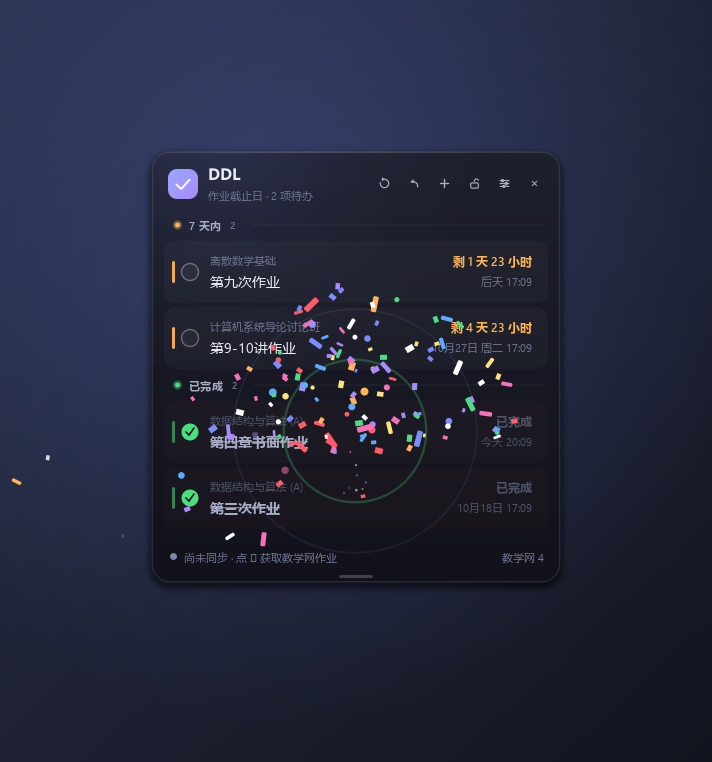
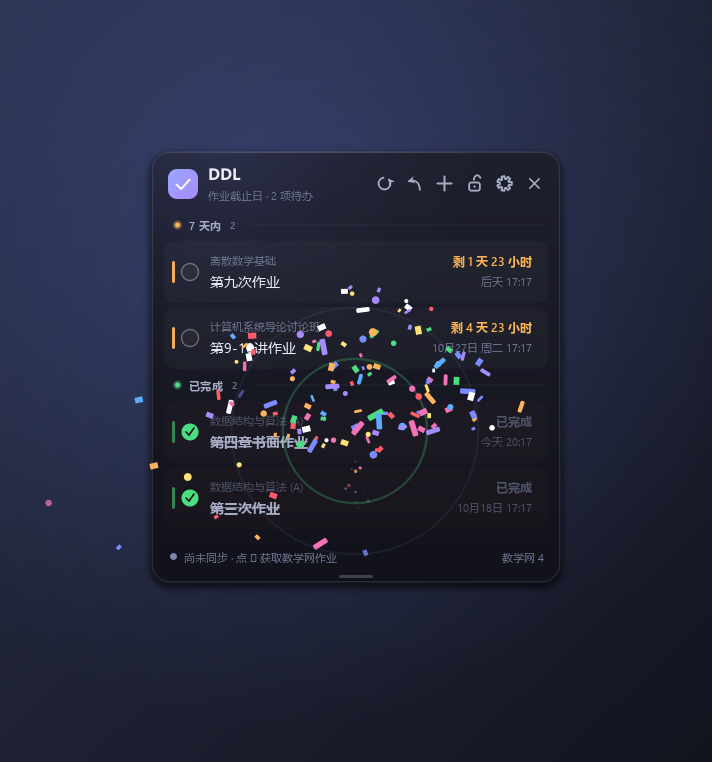
style: 重做头部图标
- 矢量图标之前的实际绘制区域只占 24 格里的 13 格，缩到 14px 只剩 8px，
  显得又小又细；改为按 18 个单位缩放，图标实际大小与字号一致
- 描边 1.8 → 2.2，头部图标尺寸各 +1px
- 刷新图标按切线角度重算箭头朝向；锁加了锁孔、锁梁加高；设置图标改回齿轮
- 截图全部重新生成

diff --git a/ddlwidget/vector_icons.py b/ddlwidget/vector_icons.py
@@ -1,7 +1,11 @@
 """矢量图标。
 
 原来用的是 Windows 自带的 Segoe Fluent Icons 字形，换到 macOS 上会变成豆腐块。
-这里改成按 24x24 网格手绘 QPainterPath，跨平台一致，也不依赖任何字体。
+这里改成按网格手绘 QPainterPath，跨平台一致，也不依赖任何字体。
+
+坐标约定：24x24 网格，图形大致占 3~21（即 18 个单位）。
+draw_icon 会按 18 个单位去缩放，这样 14px 的图标就是实打实 14px 的视觉大小，
+而不是缩到 24 格里的 13/24。
 """
 
 from __future__ import annotations
@@ -12,26 +16,21 @@ from PySide6.QtCore import QPointF, QRectF, Qt
 from PySide6.QtGui import QColor, QPainter, QPainterPath, QPen
 
 GRID = 24.0
+SPAN = 18.0
 
 
 def _pen(color: QColor, width: float = 2.2) -> QPen:
-    pen = QPen(
+    return QPen(
         color,
         width,
         Qt.PenStyle.SolidLine,
         Qt.PenCapStyle.RoundCap,
         Qt.PenJoinStyle.RoundJoin,
     )
-    return pen
 
 
-def _add(p: QPainter) -> None:
-    p.drawLine(QPointF(12, 5.5), QPointF(12, 18.5))
-    p.drawLine(QPointF(5.5, 12), QPointF(18.5, 12))
-
-
-def _arrow(p: QPainter, x: float, y: float, angle: float, size: float = 4.6) -> None:
-    """在 (x, y) 处画一个实心箭头，angle 是箭头指向（0=向右）。"""
+def _arrow(p: QPainter, x: float, y: float, angle: float, size: float = 5.4) -> None:
+    """实心箭头，angle 是箭头指向（0=向右，顺时针为正，屏幕坐标）。"""
     color = QColor(p.pen().color())
     p.save()
     p.translate(x, y)
@@ -39,125 +38,172 @@ def _arrow(p: QPainter, x: float, y: float, angle: float, size: float = 4.6) -> 
     p.setPen(Qt.PenStyle.NoPen)
     p.setBrush(color)
     tri = QPainterPath()
-    tri.moveTo(1.2, 0)
-    tri.lineTo(-size, -size * 0.72)
-    tri.lineTo(-size, size * 0.72)
+    tri.moveTo(1.6, 0)
+    tri.lineTo(-size, -size * 0.66)
+    tri.lineTo(-size * 0.62, 0)
+    tri.lineTo(-size, size * 0.66)
     tri.closeSubpath()
     p.drawPath(tri)
     p.restore()
     p.setBrush(Qt.BrushStyle.NoBrush)
 
 
+def _add(p: QPainter) -> None:
+    p.drawLine(QPointF(12, 4.0), QPointF(12, 20.0))
+    p.drawLine(QPointF(4.0, 12), QPointF(20.0, 12))
+
+
 def _refresh(p: QPainter) -> None:
-    rect = QRectF(4.8, 4.8, 14.4, 14.4)
+    cx, cy, r = 12.0, 12.0, 7.1
+    rect = QRectF(cx - r, cy - r, 2 * r, 2 * r)
     path = QPainterPath()
-    path.arcMoveTo(rect, 90)
-    path.arcTo(rect, 90, -280)
+    # 从 100° 逆时针画 300°，缺口留在 40°~100°（右上方）
+    path.arcMoveTo(rect, 100)
+    path.arcTo(rect, 100, 300)
     p.drawPath(path)
-    _arrow(p, 12.2, 5.0, 6, 4.8)
+    # 弧线终点在 40°，逆时针切线朝左上
+    end_deg = 40.0
+    angle = math.radians(end_deg)
+    _arrow(
+        p,
+        cx + r * math.cos(angle),
+        cy - r * math.sin(angle),
+        -90.0 - end_deg,
+        6.4,
+    )
 
 
 def _undo(p: QPainter) -> None:
     path = QPainterPath()
-    path.moveTo(17.6, 17.8)
-    path.cubicTo(17.6, 10.2, 11.4, 7.6, 6.4, 9.4)
+    path.moveTo(18.4, 19.6)
+    path.cubicTo(18.4, 10.0, 11.2, 6.6, 5.4, 9.2)
     p.drawPath(path)
-    _arrow(p, 6.4, 9.4, 160, 4.8)
+    _arrow(p, 5.4, 9.2, 165, 6.8)
 
 
 def _lock_body(p: QPainter) -> None:
     body = QPainterPath()
-    body.addRoundedRect(QRectF(5.0, 11.0, 14.0, 9.5), 2.2, 2.2)
+    body.addRoundedRect(QRectF(5.6, 10.8, 12.8, 9.8), 2.3, 2.3)
     p.drawPath(body)
 
 
 def _lock(p: QPainter) -> None:
     _lock_body(p)
     shackle = QPainterPath()
-    shackle.arcMoveTo(QRectF(8.0, 5.0, 8.0, 9.0), 0)
-    shackle.arcTo(QRectF(8.0, 5.0, 8.0, 9.0), 0, 180)
+    shackle.arcMoveTo(QRectF(7.9, 3.0, 8.2, 10.6), 0)
+    shackle.arcTo(QRectF(7.9, 3.0, 8.2, 10.6), 0, 180)
     p.drawPath(shackle)
+    p.setBrush(QColor(p.pen().color()))
+    p.setPen(Qt.PenStyle.NoPen)
+    p.drawEllipse(QPointF(12.0, 15.7), 1.4, 1.4)
+    p.setBrush(Qt.BrushStyle.NoBrush)
 
 
 def _unlock(p: QPainter) -> None:
     _lock_body(p)
     shackle = QPainterPath()
-    shackle.arcMoveTo(QRectF(11.6, 3.6, 8.0, 9.0), 30)
-    shackle.arcTo(QRectF(11.6, 3.6, 8.0, 9.0), 30, 150)
+    shackle.arcMoveTo(QRectF(11.2, 2.2, 8.2, 10.6), 25)
+    shackle.arcTo(QRectF(11.2, 2.2, 8.2, 10.6), 25, 155)
     p.drawPath(shackle)
+    p.setBrush(QColor(p.pen().color()))
+    p.setPen(Qt.PenStyle.NoPen)
+    p.drawEllipse(QPointF(12.0, 15.7), 1.4, 1.4)
+    p.setBrush(Qt.BrushStyle.NoBrush)
+
+
+def _gear_path(cx: float, cy: float, teeth: int = 7) -> QPainterPath:
+    r_root, r_tip = 5.6, 8.9
+    path = QPainterPath()
+    step = math.tau / teeth
+    half_tip = step * 0.23
+    half_root = step * 0.33
+    for index in range(teeth):
+        angle = index * step
+        points = (
+            (angle - half_root, r_root),
+            (angle - half_tip, r_tip),
+            (angle + half_tip, r_tip),
+            (angle + half_root, r_root),
+        )
+        for point_index, (theta, radius) in enumerate(points):
+            x = cx + radius * math.cos(theta)
+            y = cy - radius * math.sin(theta)
+            if index == 0 and point_index == 0:
+                path.moveTo(x, y)
+            else:
+                path.lineTo(x, y)
+        # 齿之间的根部圆弧，用直线近似足够
+    path.closeSubpath()
+    return path
 
 
 def _settings(p: QPainter) -> None:
-    rows = ((6.6, 8.4), (12.0, 15.4), (17.4, 11.0))
-    for y, knob in rows:
-        p.drawLine(QPointF(4.0, y), QPointF(20.0, y))
-        p.setBrush(QColor(p.pen().color()))
-        p.drawEllipse(QPointF(knob, y), 2.0, 2.0)
-        p.setBrush(Qt.BrushStyle.NoBrush)
+    p.drawPath(_gear_path(12.0, 12.0, teeth=7))
+    p.setBrush(Qt.BrushStyle.NoBrush)
 
 
 def _close(p: QPainter) -> None:
-    p.drawLine(QPointF(7.0, 7.0), QPointF(17.0, 17.0))
-    p.drawLine(QPointF(17.0, 7.0), QPointF(7.0, 17.0))
+    p.drawLine(QPointF(5.5, 5.5), QPointF(18.5, 18.5))
+    p.drawLine(QPointF(18.5, 5.5), QPointF(5.5, 18.5))
 
 
 def _check(p: QPainter) -> None:
-    p.drawLine(QPointF(5.2, 12.6), QPointF(10.0, 17.2))
-    p.drawLine(QPointF(10.0, 17.2), QPointF(18.8, 7.0))
+    p.drawLine(QPointF(4.0, 12.4), QPointF(9.8, 18.0))
+    p.drawLine(QPointF(9.8, 18.0), QPointF(20.0, 5.8))
 
 
 def _warning(p: QPainter) -> None:
     triangle = QPainterPath()
-    triangle.moveTo(12.0, 3.6)
-    triangle.lineTo(21.0, 19.4)
-    triangle.lineTo(3.0, 19.4)
+    triangle.moveTo(12.0, 2.8)
+    triangle.lineTo(21.6, 20.4)
+    triangle.lineTo(2.4, 20.4)
     triangle.closeSubpath()
     p.drawPath(triangle)
-    p.drawLine(QPointF(12.0, 9.4), QPointF(12.0, 13.8))
+    p.drawLine(QPointF(12.0, 9.6), QPointF(12.0, 14.2))
     p.setBrush(QColor(p.pen().color()))
-    p.drawEllipse(QPointF(12.0, 16.6), 1.05, 1.05)
+    p.setPen(Qt.PenStyle.NoPen)
+    p.drawEllipse(QPointF(12.0, 17.0), 1.15, 1.15)
     p.setBrush(Qt.BrushStyle.NoBrush)
 
 
 def _pin(p: QPainter) -> None:
-    p.drawLine(QPointF(9.0, 15.0), QPointF(5.0, 19.0))
+    p.drawLine(QPointF(9.4, 14.6), QPointF(5.0, 19.0))
     path = QPainterPath()
-    path.moveTo(8.2, 4.6)
-    path.lineTo(15.4, 11.8)
-    path.lineTo(13.2, 14.0)
-    path.lineTo(6.0, 6.8)
+    path.moveTo(8.0, 4.0)
+    path.lineTo(16.0, 12.0)
+    path.lineTo(13.4, 14.6)
+    path.lineTo(5.4, 6.6)
     path.closeSubpath()
     p.drawPath(path)
-    p.drawLine(QPointF(13.6, 14.4), QPointF(17.4, 18.2))
 
 
 def _edit(p: QPainter) -> None:
     path = QPainterPath()
-    path.moveTo(4.5, 19.5)
-    path.lineTo(5.4, 15.0)
-    path.lineTo(15.6, 4.8)
-    path.lineTo(19.2, 8.4)
-    path.lineTo(9.0, 18.6)
+    path.moveTo(4.0, 20.0)
+    path.lineTo(5.0, 15.0)
+    path.lineTo(15.8, 4.2)
+    path.lineTo(19.8, 8.2)
+    path.lineTo(9.0, 19.0)
     path.closeSubpath()
     p.drawPath(path)
 
 
 def _trash(p: QPainter) -> None:
-    p.drawLine(QPointF(4.5, 7.5), QPointF(19.5, 7.5))
-    p.drawLine(QPointF(9.5, 7.5), QPointF(9.5, 4.5))
-    p.drawLine(QPointF(9.5, 4.5), QPointF(14.5, 4.5))
-    p.drawLine(QPointF(14.5, 4.5), QPointF(14.5, 7.5))
+    p.drawLine(QPointF(4.0, 6.8), QPointF(20.0, 6.8))
+    p.drawLine(QPointF(9.4, 6.8), QPointF(9.4, 3.4))
+    p.drawLine(QPointF(9.4, 3.4), QPointF(14.6, 3.4))
+    p.drawLine(QPointF(14.6, 3.4), QPointF(14.6, 6.8))
     body = QPainterPath()
-    body.moveTo(6.5, 7.5)
-    body.lineTo(7.6, 19.6)
-    body.lineTo(16.4, 19.6)
-    body.lineTo(17.5, 7.5)
+    body.moveTo(6.0, 6.8)
+    body.lineTo(7.2, 20.2)
+    body.lineTo(16.8, 20.2)
+    body.lineTo(18.0, 6.8)
     p.drawPath(body)
 
 
 def _chevron_down(p: QPainter) -> None:
-    p.drawLine(QPointF(8.0, 10.5), QPointF(12.0, 14.5))
-    p.drawLine(QPointF(12.0, 14.5), QPointF(16.0, 10.5))
+    p.drawLine(QPointF(7.0, 9.5), QPointF(12.0, 14.5))
+    p.drawLine(QPointF(12.0, 14.5), QPointF(17.0, 9.5))
 
 
 _DRAW = {
@@ -183,7 +229,7 @@ def draw_icon(
     name: str,
     rect: QRectF,
     color: QColor,
-    stroke: float = 2.2,
+    stroke: float = 2.0,
     rotation: float = 0.0,
 ) -> None:
     draw = _DRAW.get(name)
@@ -197,14 +243,9 @@ def draw_icon(
     painter.translate(rect.center())
     if abs(rotation) > 0.01:
         painter.rotate(rotation)
-    painter.scale(size / GRID, size / GRID)
+    painter.scale(size / SPAN, size / SPAN)
     painter.translate(-GRID / 2, -GRID / 2)
     painter.setPen(_pen(color, stroke))
     painter.setBrush(Qt.BrushStyle.NoBrush)
     draw(painter)
     painter.restore()
-
-
-def icon_size_for(px: int) -> float:
-    """图标内容区大概占字号的多大——用来把字体尺寸换算成图形尺寸。"""
-    return max(6.0, px * 1.05)

diff --git a/ddlwidget/main_window.py b/ddlwidget/main_window.py
@@ -334,20 +334,20 @@ class MainWindow(QWidget):
         buttons.setContentsMargins(0, 0, 0, 0)
         buttons.setSpacing(3)
 
-        self._btn_sync = IconButton("refresh", 27, 14, "立即同步教学网")
+        self._btn_sync = IconButton("refresh", 27, 15, "立即同步教学网")
         self._btn_sync.clicked.connect(self.sync_requested.emit)
         self._btn_reset = IconButton(
-            "undo", 27, 14, "把教学网上未提交的作业全部恢复为待办（会解除手动勾选）"
+            "undo", 27, 15, "把教学网上未提交的作业全部恢复为待办（会解除手动勾选）"
         )
         self._btn_reset.clicked.connect(self.reset_requested.emit)
-        self._btn_add = IconButton("add", 27, 15, "添加 DDL")
+        self._btn_add = IconButton("add", 27, 16, "添加 DDL")
         self._btn_add.clicked.connect(self.add_item)
-        self._btn_lock = IconButton("unlock", 27, 13, "锁定位置")
+        self._btn_lock = IconButton("unlock", 27, 15, "锁定位置")
         self._btn_lock.setCheckable(True)
         self._btn_lock.clicked.connect(self._toggle_lock)
-        self._btn_settings = IconButton("settings", 27, 13, "设置")
+        self._btn_settings = IconButton("settings", 27, 15, "设置")
         self._btn_settings.clicked.connect(self.open_settings)
-        self._btn_close = IconButton("close", 27, 11, "隐藏到托盘")
+        self._btn_close = IconButton("close", 27, 13, "隐藏到托盘")
         self._btn_close.clicked.connect(self._on_close_clicked)
 
         for btn in (

diff --git a/dev/compare_header.py b/dev/compare_header.py
@@ -1,0 +1,22 @@
+"""把新旧两版头部拼在一起做对比。"""
+
+from pathlib import Path
+
+from PIL import Image
+
+ROOT = Path(__file__).resolve().parent.parent
+old = Image.open(ROOT / ".tmp" / "old_main.png").convert("RGB")
+new = Image.open(ROOT / "docs" / "screenshots" / "main.png").convert("RGB")
+
+x0, y0, x1, y1 = 360, 40, 670, 110
+crop_old = old.crop((x0, y0, x1, y1))
+crop_new = new.crop((x0, y0, x1, y1))
+
+scale = 3
+w, h = x1 - x0, y1 - y0
+canvas = Image.new("RGB", (w * scale, h * scale * 2 + 14), (10, 11, 16))
+canvas.paste(crop_old.resize((w * scale, h * scale), Image.LANCZOS), (0, 0))
+canvas.paste(crop_new.resize((w * scale, h * scale), Image.LANCZOS), (0, h * scale + 14))
+out = ROOT / "dev" / "shots" / "header_compare.png"
+canvas.save(out)
+print("saved", out, canvas.size)
